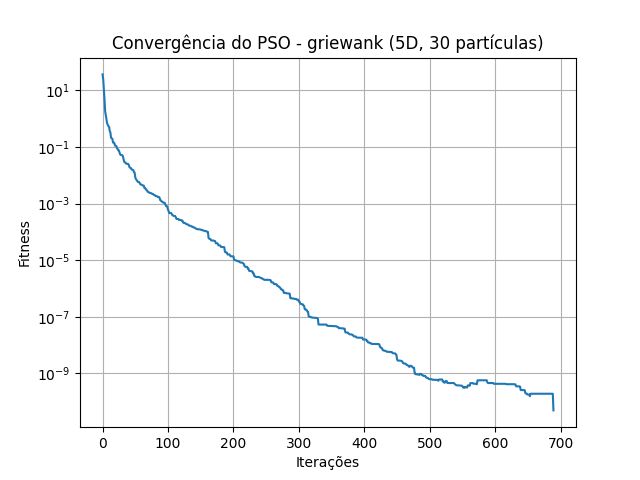
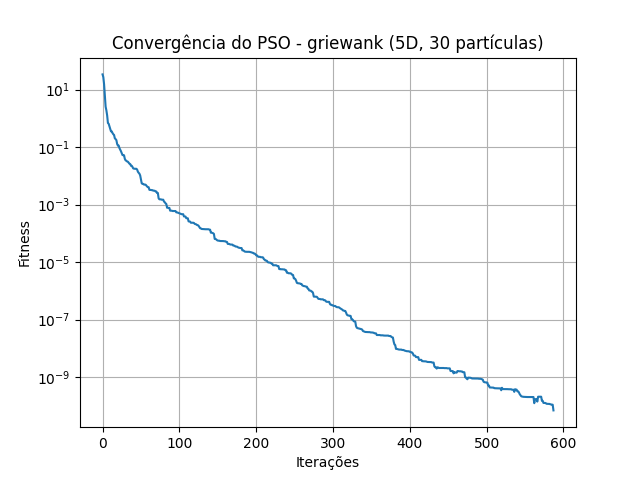
feat: boxplots e otimização no optmize do PSOEnvironment

diff --git a/main.py b/main.py
@@ -55,7 +55,11 @@ if __name__ == '__main__':
             # Preenchimento com NaN para alinhamento
             fits_padded = [np.pad(f, (0, max_len - len(f)), constant_values=np.nan) for f in fits]
             mean_fit = np.nanmean(fits_padded, axis=0)
+            std_deviation = np.nanstd(fits_padded, axis=0)
             
+            """"
+            # Gráfico de convergência
+            """
             plt.plot(mean_fit)
             plt.title(f"Convergência do PSO - {test_function} ({dim}D, {NUM_PARTICLES} partículas)")
             plt.xlabel("Iterações")
@@ -64,6 +68,20 @@ if __name__ == '__main__':
             plt.grid()
             plt.savefig(f"graphs/convergencia_{test_function}_{dim}D.png")
             plt.close()
+
+            """
+            # Boxplot
+            """
+            final_fitness = [f[-1] for f in fits]
+            plt.boxplot(final_fitness)
+            plt.title(f"Boxplot de Fitness Final - {test_function} ({dim}D, {NUM_PARTICLES} partículas)")
+            plt.ylabel("Fitness final")
+            plt.grid()
+            plt.yscale("log")
+            plt.savefig(f"graphs/boxplot_{test_function}_{dim}D.png")
+            plt.close()
+
+
 
             print("\nOptimization Results:")
             print(f"Best fitness: {result.best_fitness}")

diff --git a/src/environment.py b/src/environment.py
@@ -83,10 +83,7 @@ class PSOEnvironment:
                 if fitness < self.global_best_fitness:
                     self.global_best_fitness = fitness
                     self.global_best_position = np.copy(position)
-                    best_iteration = iterations
-            
-            # Atualiza velocidades e posições
-            for particle in self.particles:
+
                 particle.update_velocity(self.global_best_position)
                 particle.update_position()
             
